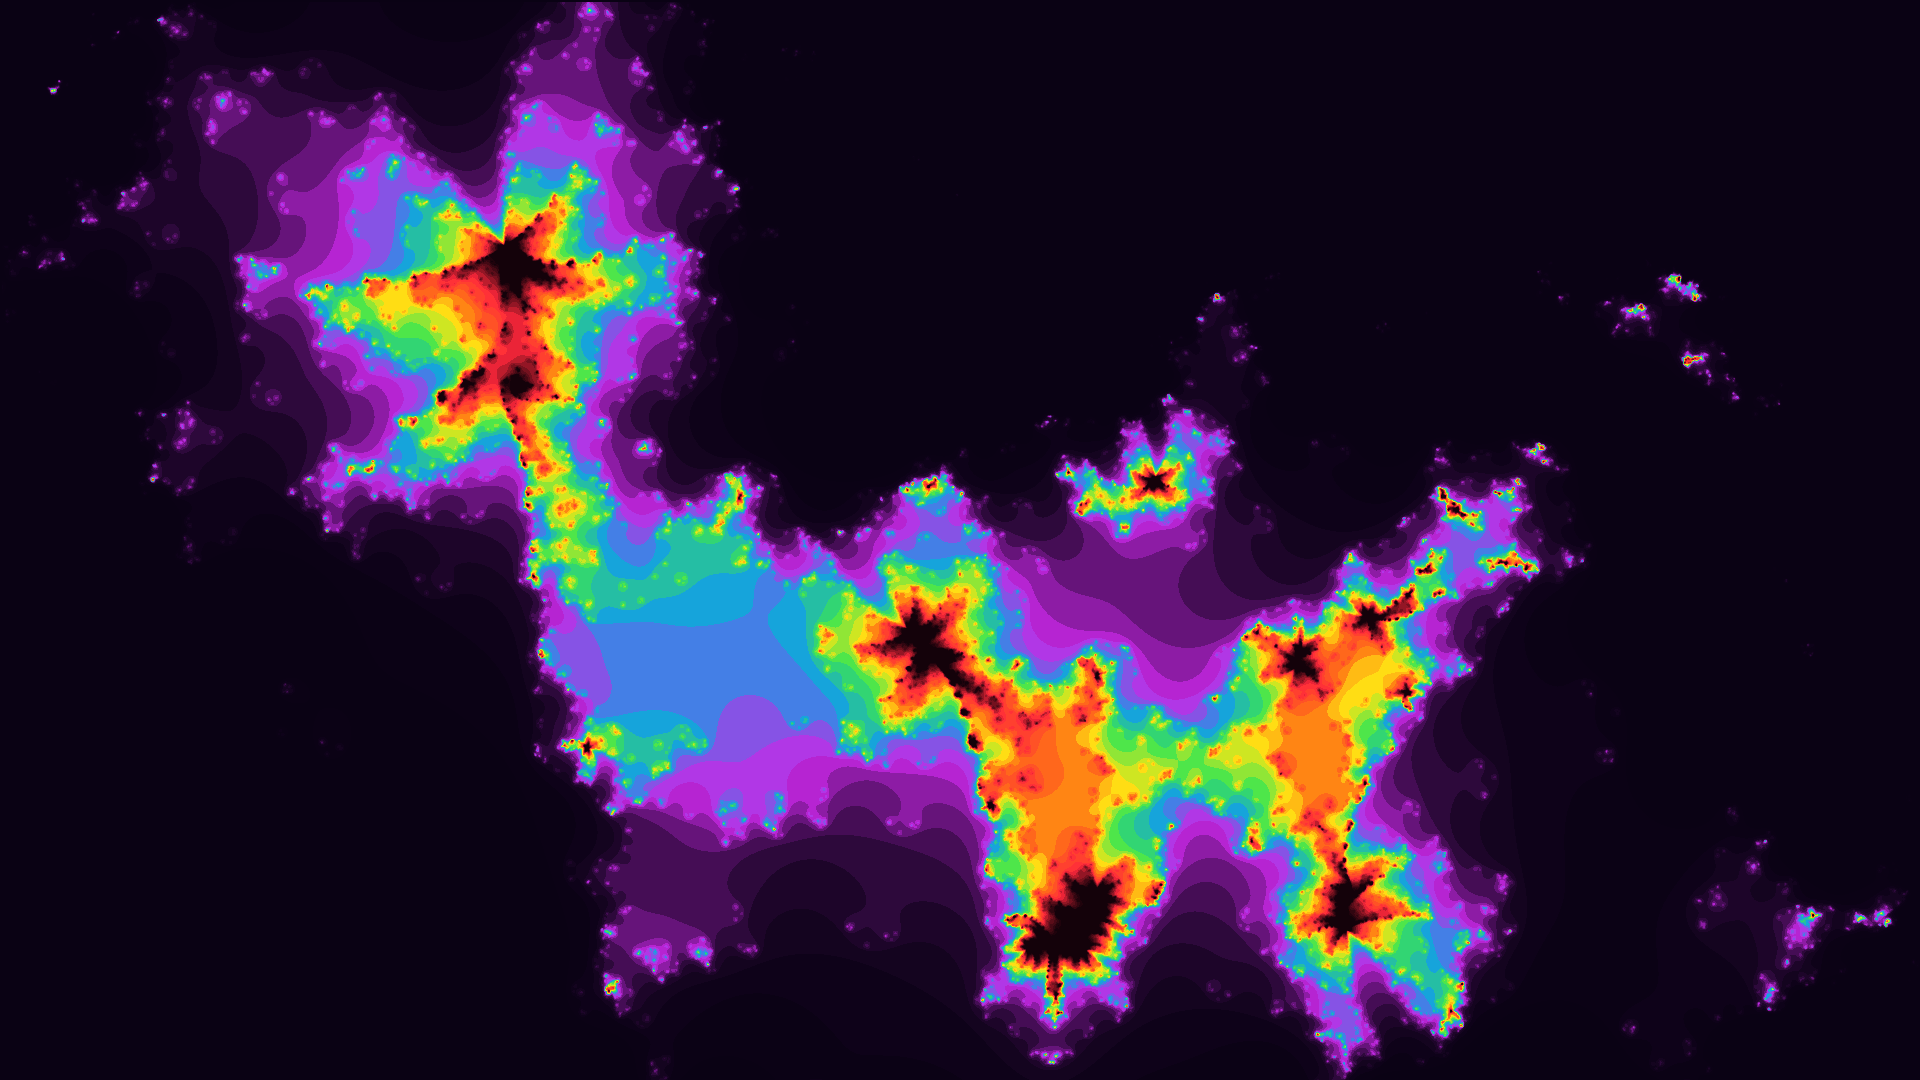
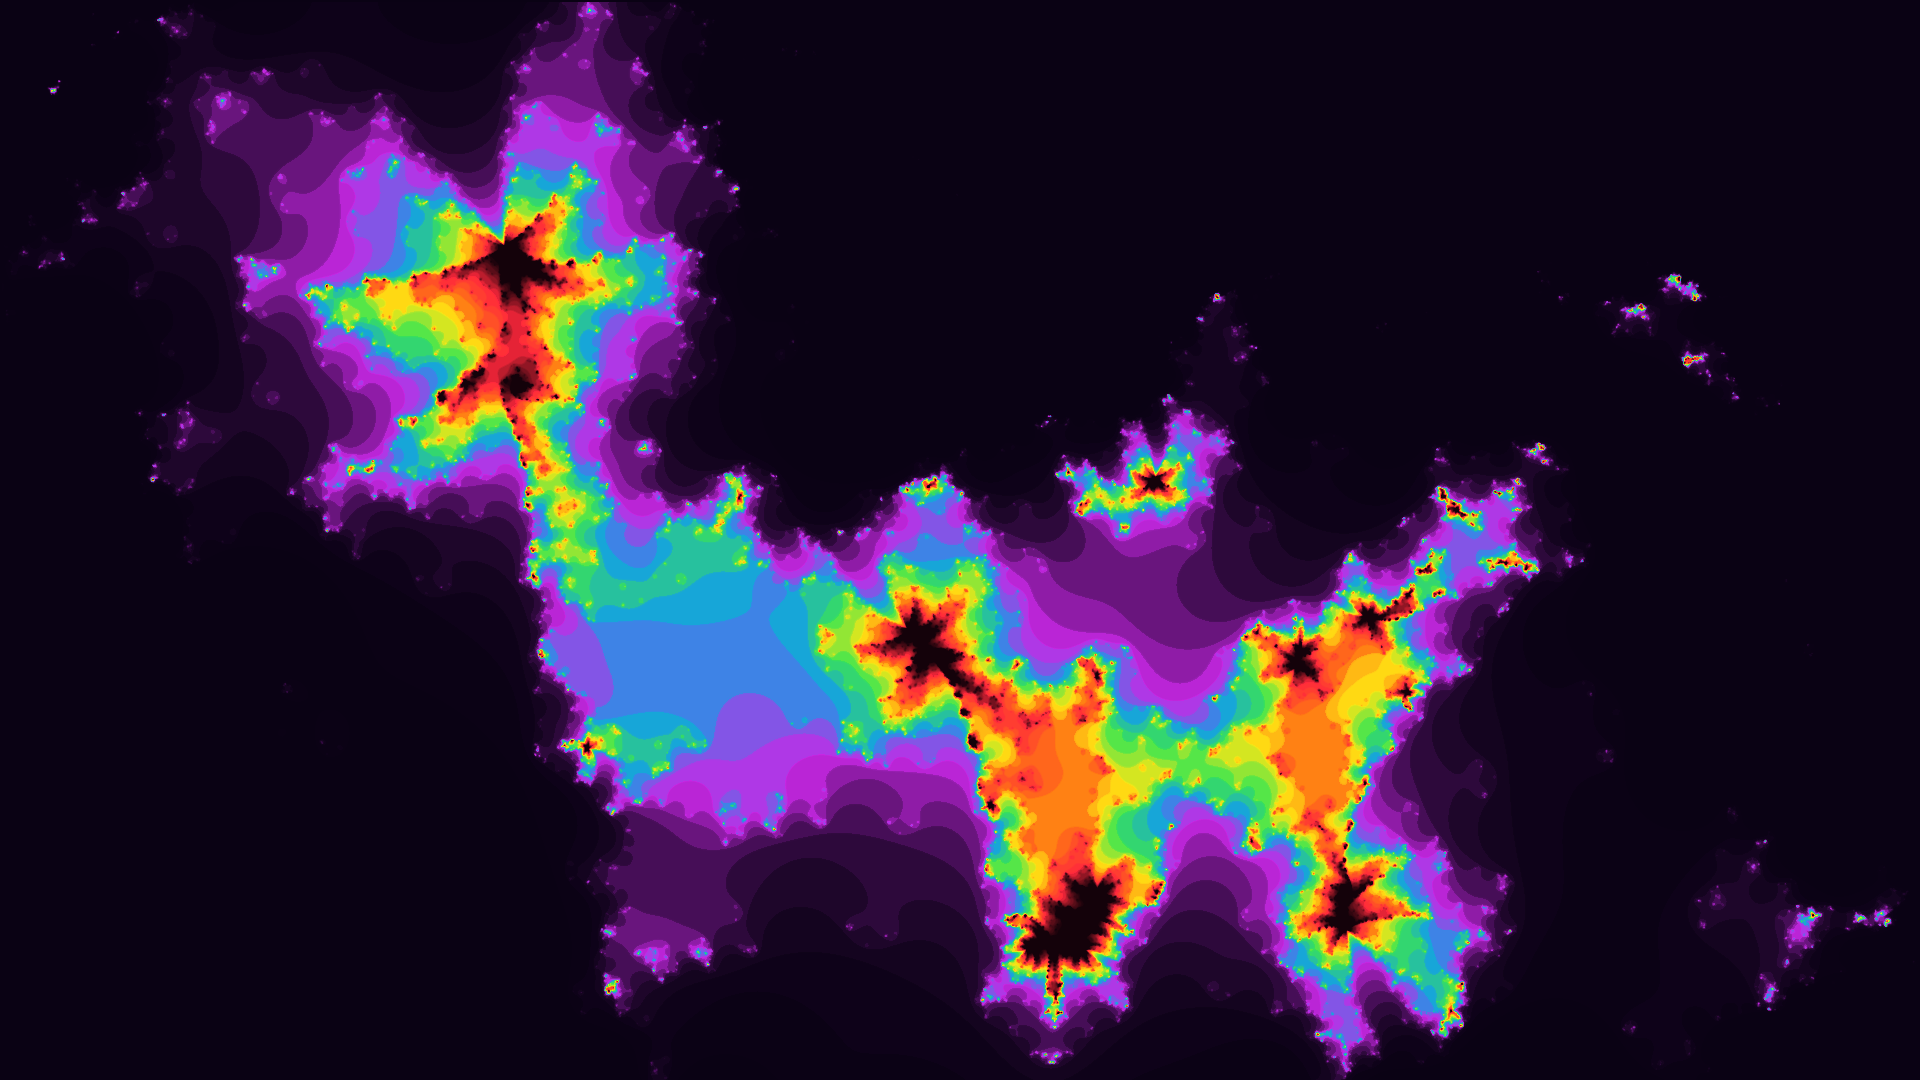
Re-render everything and add exploration sampling level

diff --git a/src/sampling.rs b/src/sampling.rs
@@ -11,6 +11,7 @@ pub struct Sampling {
 
 #[derive(Debug, Clone, Copy, Default, PartialEq, Eq, Serialize, Deserialize)]
 pub enum SamplingLevel {
+    Exploration,
     Low,
     #[default]
     Medium,
@@ -24,6 +25,7 @@ pub enum SamplingLevel {
 
 pub fn generate_sampling_points(sampling_level: Option<SamplingLevel>) -> Vec<(f64, f64)> {
     let n = match sampling_level.unwrap_or_default() {
+        SamplingLevel::Exploration => 5,
         SamplingLevel::Low => 21,
         SamplingLevel::Medium => 34,
         SamplingLevel::High => 55,

diff --git a/README.md b/README.md
@@ -10,6 +10,7 @@ It includes different fractal kinds among which the Mandelbrot set and a (potent
 - [How to use](#how-to-use)
 - [Preset renders](#preset-renders)
 - [Parameter file reference](#parameter-file-reference)
+- [Ideas](#ideas)
 
 # How to use
 
@@ -112,6 +113,12 @@ I think this one looks a bit like Mandelbrot ?
 
 ![efhhgk.png](./presets/efhhgk.png)
 
+### [erbeap.json](./presets/erbeap.json)
+
+> Fractal: `ThirdDegreeRecPairs`
+
+![erbeap.png](./presets/erbeap.png)
+
 # Parameter file reference
 
 - `img_width` _(int)_ and `img_height` _(int)_: Set image width and height.
@@ -178,3 +185,7 @@ I think this one looks a bit like Mandelbrot ?
 - `dev_options` _(optional)_: For development purposes.
   - `save_sampling_pattern` _(bool, optional)_: Save the sampling pattern as an image.
   - `display_gradient` _(bool, optional)_: Draw the gradient used for coloring in the bottom right corner of the image.
+
+# Ideas
+
+- Add a way to set up a list of "non-render rectangles" in the param file: this would allow marking areas as highly divergent and prevent huge amounts of computation.
